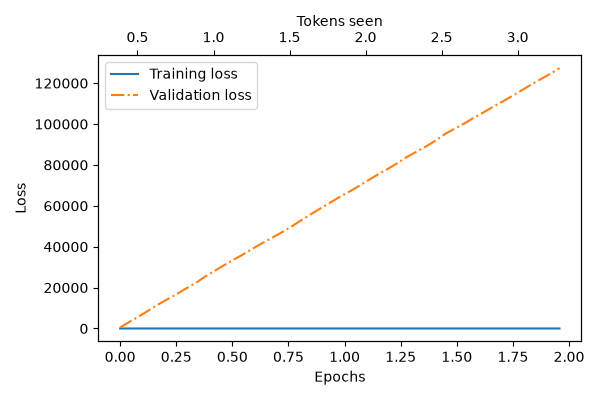
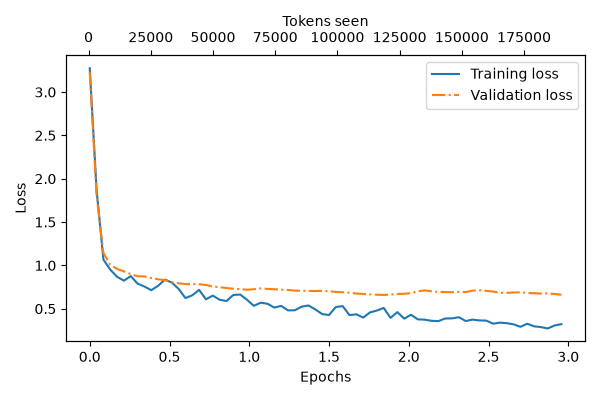
Feat: achieved a sweetspot on e epochs with the initial dataset

diff --git a/InstructionLLM/app.py b/InstructionLLM/app.py
@@ -38,16 +38,16 @@ class FineTune:
 
      #define the optimizer
      optimizer = torch.optim.AdamW(self.model.parameters(), lr=2e-5, weight_decay=0.01)
-     num_epochs = 2
+     num_epochs = 3
      #use train script to start training
-     train_losses, val_losses, tokens_seen =self.trainer.train_model(self.model,
-    self.train_loaders,self.val_loader,optimizer,self.device,num_epochs,eval_freq=5, eval_iter=5,start_context=format_input(val_data[1]),tokenizer=self.tokenizer)
+     train_losses, val_losses, tokens_seen =self.trainer.train_model(self.model, 
+    self.train_loaders,self.val_loader,optimizer,self.device,num_epochs,eval_freq=5, eval_iter=5,start_context=format_input(val_data[2]),tokenizer=self.tokenizer)
      end_time = time()
      execution_time_minutes = (end_time - start_time) / 60
      print(f"Training completed in {execution_time_minutes:.2f} minutes.")
 
      #plot losses
-     plot_loss(num_epochs,train_losses,val_losses,tokens_seen)
+     plot_loss(num_epochs,tokens_seen,train_losses,val_losses)
      
    
    

diff --git a/InstructionLLM/training_scripts/train.py b/InstructionLLM/training_scripts/train.py
@@ -51,7 +51,7 @@ class Train:
                                 "epoch": epoch +1,
                                 "total_tokens":tokens_seen,
                                 "global_steps":global_step,
-                            }, "checkpoint.pth") 
+                            }, "best_checkpoint.pth") 
                     
             #print a sample text after each epoch
             TextGeneration.generate_and_print_sample(model, tokenizer, device, start_context)
